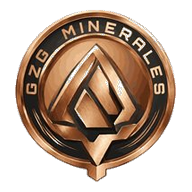
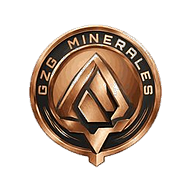
Habilitar scroll tactil en toda la app, optimizar renderizado de Historial sin parpadeo y afilar iconos PWA en alta definicion

diff --git a/docs/index.html b/docs/index.html
@@ -53,21 +53,23 @@
     }
     @keyframes spin { to { transform: rotate(360deg); } }
 
-    /* Contenedor que oculta el footer 'Built with Streamlit' */
     #app-box {
-      position: fixed;
-      inset: 0;
+      position: absolute;
+      top: 0;
+      left: 0;
+      width: 100%;
+      height: 100%;
       overflow: hidden;
       background: #121418;
     }
 
     iframe {
-      width: 100vw;
-      /* Extra 52px para expulsar el footer de Streamlit fuera de pantalla */
-      height: calc(100dvh + 52px);
+      width: 100%;
+      height: calc(100% + 46px);
       border: none;
       display: block;
       background: #121418;
+      margin-bottom: -46px;
     }
 
     /* Barra flotante superior de instalación (discreta y cerrable) */
@@ -135,7 +137,7 @@
   <div id="app-box">
     <iframe
       id="st-frame"
-      src="https://gzg-aprobaciones-movil.streamlit.app/?embed=true&embed_options=hide_footer&embed_options=disable_scrolling"
+      src="https://gzg-aprobaciones-movil.streamlit.app/?embed=true&embed_options=hide_footer"
       allow="camera;microphone;geolocation;clipboard-read;clipboard-write">
     </iframe>
   </div>

diff --git a/index.html b/index.html
@@ -53,21 +53,23 @@
     }
     @keyframes spin { to { transform: rotate(360deg); } }
 
-    /* Contenedor que oculta el footer 'Built with Streamlit' */
     #app-box {
-      position: fixed;
-      inset: 0;
+      position: absolute;
+      top: 0;
+      left: 0;
+      width: 100%;
+      height: 100%;
       overflow: hidden;
       background: #121418;
     }
 
     iframe {
-      width: 100vw;
-      /* Extra 52px para expulsar el footer de Streamlit fuera de pantalla */
-      height: calc(100dvh + 52px);
+      width: 100%;
+      height: calc(100% + 46px);
       border: none;
       display: block;
       background: #121418;
+      margin-bottom: -46px;
     }
 
     /* Barra flotante superior de instalación (discreta y cerrable) */
@@ -135,7 +137,7 @@
   <div id="app-box">
     <iframe
       id="st-frame"
-      src="https://gzg-aprobaciones-movil.streamlit.app/?embed=true&embed_options=hide_footer&embed_options=disable_scrolling"
+      src="https://gzg-aprobaciones-movil.streamlit.app/?embed=true&embed_options=hide_footer"
       allow="camera;microphone;geolocation;clipboard-read;clipboard-write">
     </iframe>
   </div>

diff --git a/mobile.py b/mobile.py
@@ -41,6 +41,7 @@ def get_hero_base64():
             return base64.b64encode(f.read()).decode()
     return ""
 
+@st.cache_data(show_spinner=False)
 def get_worker_avatar_url(dni: str, worker_name: str) -> str:
     if dni:
         dni_clean = str(dni).strip().lstrip('0').zfill(8)
@@ -623,7 +624,7 @@ with tab_historial:
     if df_hist.empty:
         st.info("No hay registros en el historial para este filtro.")
     else:
-        root_dir = os.path.dirname(os.path.abspath(__file__))
+        cards_list = []
         for idx, row in df_hist.iterrows():
             worker_name = f"{row.get('nombres', '')} {row.get('apellidos', '')}".title()
             cargo = row.get('cargo', '')
@@ -632,14 +633,12 @@ with tab_historial:
             he_hhmm = row.get('horas_extras_hhmm', '0h 00m')
             exceso_hhmm = row.get('exceso_jornada_hhmm', '0h 00m')
             aprobador = row.get('aprobado_por', 'Sistema')
-            c_aprob = row.get('comentario_n1', '') or row.get('comentario_n2', '')
-            adjunto = row.get('adjuntos', '')
             
             badge_html = f'<span class="badge-approved">APROBADO</span>' if estado == 'APROBADO' else (
                 f'<span class="badge-rejected">RECHAZADO</span>' if estado == 'RECHAZADO' else f'<span class="badge-pending">PENDIENTE</span>'
             )
             
-            st.markdown(f"""
+            cards_list.append(f"""
             <div class="approval-card">
                 <div style="display: flex; justify-content: space-between; align-items: center;">
                     <div class="worker-name">{worker_name}</div>
@@ -653,7 +652,8 @@ with tab_historial:
                 </div>
                 <div style="font-size: 10px; color: #6C727F; margin-top: 6px;">Por: {aprobador}</div>
             </div>
-            """, unsafe_allow_html=True)
+            """)
+        st.markdown("".join(cards_list), unsafe_allow_html=True)
 
 # ---------------------------------------------------------
 # TAB 3: DASHBOARD DE ESTADÍSTICAS
